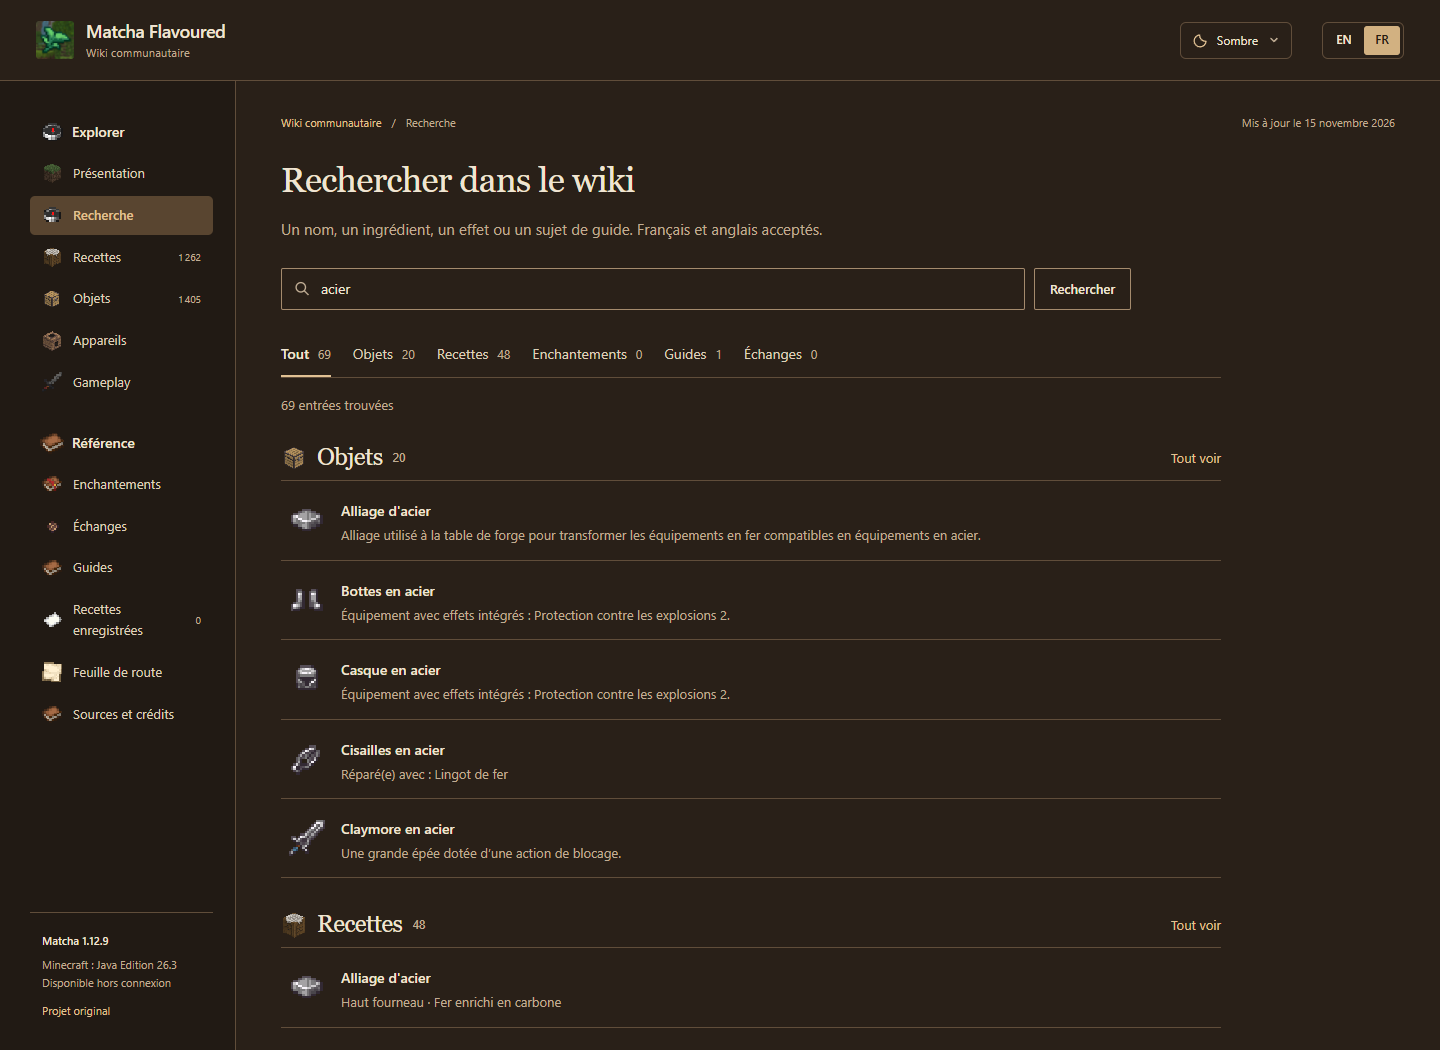
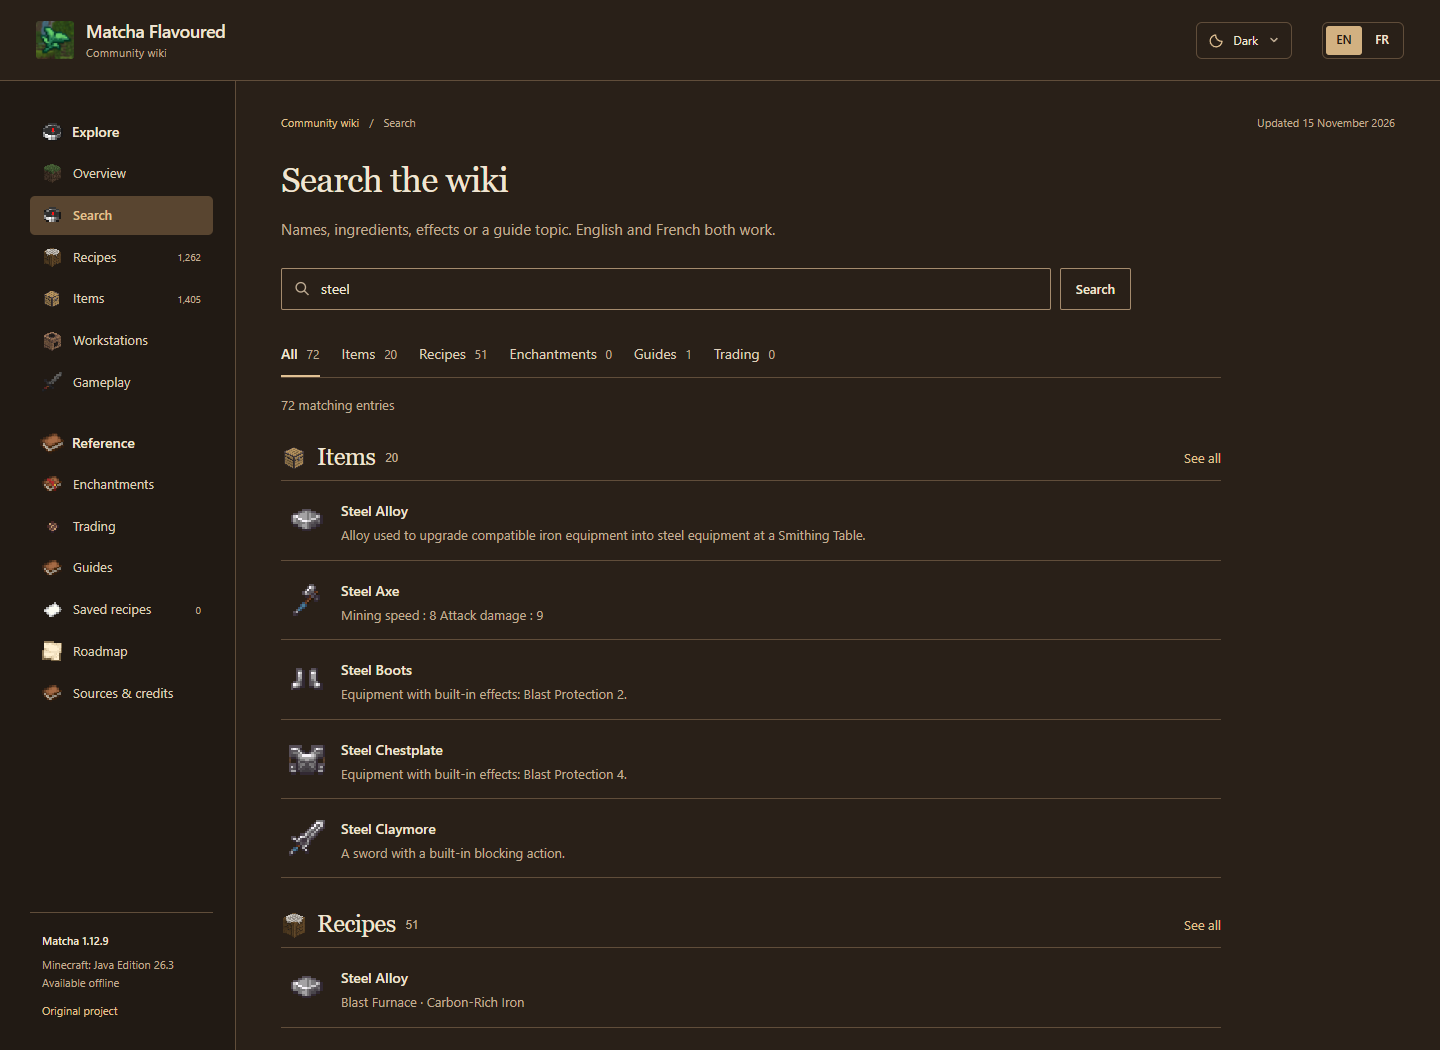
docs: present the wiki in English and invite stars
Keep the wiki bilingual while making the repository README English-only.
Refresh the preview and file checksums to match the presentation.

diff --git a/README.md b/README.md
@@ -1,92 +1,77 @@
 <p align="center">
-  <img src="matcha-logo.png" width="96" height="96" alt="Logo officiel de Matcha Flavoured">
+  <img src="matcha-logo.png" width="96" height="96" alt="Official Matcha Flavoured logo">
 </p>
 
 # Matcha Flavoured Wiki
 
-**Nouveau wiki réalisé par Tsumun.** Un wiki communautaire en français et en anglais pour retrouver les recettes, comprendre les objets et consulter les règles de Matcha Flavoured.
+**New wiki created by Tsumun.** An independent community wiki to look up recipes, understand items and explore the gameplay changes in Matcha Flavoured. The wiki itself is available in **English and French**.
 
-**[Consulter le wiki](https://tsumundev.github.io/Matcha-Flavoured-Wiki/)** · **[Télécharger le wiki en ZIP](https://github.com/TsumunDev/Matcha-Flavoured-Wiki/raw/refs/heads/main/matcha-wiki-site.zip)** · **[Historique des sauvegardes](https://github.com/TsumunDev/Matcha-Flavoured-Wiki/commits/main/)**
+**[Read the wiki](https://tsumundev.github.io/Matcha-Flavoured-Wiki/)** · **[Download the offline ZIP](https://github.com/TsumunDev/Matcha-Flavoured-Wiki/raw/refs/heads/main/matcha-wiki-site.zip)** · **[Browse saved versions](https://github.com/TsumunDev/Matcha-Flavoured-Wiki/commits/main/)**
 
-[![Recherche du wiki Matcha, avec les textures du pack et les résultats en français](preview/wiki-search.png)](https://tsumundev.github.io/Matcha-Flavoured-Wiki/)
+If you find the wiki useful, please leave a **⭐ on this repository**. Thank you for supporting the project!
 
-Ce dépôt conserve les versions consultables du wiki et une trace de son évolution. Le fichier HTML, les images nécessaires et le téléchargement hors connexion sont sauvegardés ici. Les sources de travail séparées, outils de développement et archives complètes du pack restent hors du dépôt.
+[![Matcha wiki search, showing original pack textures and English results](preview/wiki-search.png)](https://tsumundev.github.io/Matcha-Flavoured-Wiki/)
 
-## Le projet original
+This repository preserves browsable wiki snapshots and a record of their development. It includes the standalone HTML, its images and an offline download. Separate development sources, tools and full pack archives are kept outside this repository.
 
-**Matcha Flavoured est créé par Klei Wright et les contributeurs du projet.** Ce wiki est indépendant et ne constitue pas un wiki officiel du pack.
+## The original project
 
-- **[Matcha Flavoured sur Modrinth](https://modrinth.com/datapack/matcha-flavoured)** : télécharger le pack, consulter sa présentation et ses versions.
-- **[GitHub officiel de Matcha Flavoured](https://github.com/kleiwright/matcha-flavoured)** : retrouver les sources et le développement du datapack.
+**Matcha Flavoured is created by Klei Wright and the project's contributors.** This wiki is a separate community project and is not an official Matcha wiki.
 
-Le wiki sert à consulter des informations. Pour installer ou mettre à jour Matcha, utilisez les pages officielles ci-dessus.
+- **[Matcha Flavoured on Modrinth](https://modrinth.com/datapack/matcha-flavoured)** — download the pack, read its description and browse its releases.
+- **[Official Matcha Flavoured GitHub](https://github.com/kleiwright/matcha-flavoured)** — find the datapack's source and development history.
 
-## Version documentée
+To install or update Matcha, use the official project pages above. This repository distributes the wiki, not the pack.
 
-| Référence | Cette sauvegarde |
+## Documented version
+
+| Reference | This snapshot |
 | --- | --- |
 | Matcha Flavoured | **1.12.9** |
 | Minecraft | **Java Edition 26.3** |
-| Langues du wiki | **Français et anglais** |
-| Édition | **15 novembre 2026** |
+| Wiki languages | **English and French** |
+| Edition date | **15 November 2026** |
 
-Le contenu correspond à cette version précise. Un serveur, un addon ou une autre version du pack peut modifier les règles et les recettes.
+The content documents this specific release. Servers, addons and other pack versions may change recipes or gameplay rules.
 
-## Ce qu’on peut consulter
+## What's inside
 
-| Rubrique | Contenu |
+| Section | Content |
 | --- | --- |
-| Recettes | **1 262 recettes**, avec ingrédients, variantes acceptées, quantités, disposition et appareil. |
-| Objets | **1 405 fiches publiques**, avec descriptions, fabrication et utilisations. |
-| Guides | **19 guides bilingues** : débuts, cuisine, équipement, santé, mort, créatures, Nether, End, agriculture et exploration. |
-| Enchantements | **74 effets actifs** et **28 livres**, dont les bénédictions et Ofuda. |
-| Alimentation | **191 aliments et préparations**, avec les effets et les conditions de soin. |
-| Échanges | **268 offres utiles**, avec coûts, métiers et conditions de biome lorsqu’elles existent. |
-| Progrès et raretés | Un arbre de **69 progrès publics**, les étoiles de **47 poissons** et les raretés de noms documentées. |
+| Recipes | **1,262 recipes** with ingredients, accepted alternatives, quantities, arrangements and workstations. |
+| Items | **1,405 public entries** with descriptions, crafting recipes and uses. |
+| Guides | **19 bilingual guides** covering first steps, cooking, equipment, health, death, creatures, the Nether, the End, farming and exploration. |
+| Enchantments | **74 active effects** and **28 books**, including crafted Blessings and traded Ofuda. |
+| Food | **191 foods and preparations**, with effects and conditional healing explained. |
+| Trading | **268 useful offers**, with costs, professions and biome conditions where applicable. |
+| Advancements and rarity | A tree of **69 public advancements**, star ratings for **47 fish** and documented item-name rarities. |
 
-La recherche accepte les noms français et anglais, les accents, les identifiants et les alias. Les catégories et filtres se combinent. Trois apparences sont disponibles : Sombre, Clair et Claude. Les recettes enregistrées restent dans le navigateur de chaque lecteur.
+Search accepts English and French names, accents, technical identifiers and aliases. Categories and filters can be combined. Dark, Light and Claude appearances are available, and saved recipes stay in each reader's browser.
 
-Les secrets explicites et entrées de débogage ne sont pas présentés dans cette édition.
+Explicit secrets and debug entries are excluded from this edition.
 
-## Télécharger et ouvrir hors connexion
+## Download and read offline
 
-1. Téléchargez **[matcha-wiki-site.zip](https://github.com/TsumunDev/Matcha-Flavoured-Wiki/raw/refs/heads/main/matcha-wiki-site.zip)**.
-2. Décompressez l’archive dans un dossier.
-3. Ouvrez **`index.html`** dans votre navigateur.
+1. Download **[matcha-wiki-site.zip](https://github.com/TsumunDev/Matcha-Flavoured-Wiki/raw/refs/heads/main/matcha-wiki-site.zip)**.
+2. Extract the archive into a folder.
+3. Open **`index.html`** in your browser.
 
-Les données, images et recherches sont intégrées au HTML. Aucun serveur ni compte n’est nécessaire pour consulter le wiki ; seuls les liens externes demandent Internet. Les fichiers de crédits accompagnent l’archive.
+Data, images and search are bundled into the HTML. No server or account is needed to browse the wiki; only external reference links require an internet connection. Attribution files are included in the archive.
 
-Le bouton **Code → Download ZIP** de GitHub télécharge quant à lui tout le dépôt, avec le README et l’historique éditorial de cette édition.
+GitHub's **Code → Download ZIP** button downloads the whole repository snapshot instead, including this README and the changelog.
 
-## Suivre les sauvegardes
+## Follow the wiki's progress
 
-- [CHANGELOG.md](CHANGELOG.md) décrit les évolutions du wiki.
-- [SNAPSHOT.json](SNAPSHOT.json) indique la version documentée et les empreintes des fichiers distribués.
-- L’[historique Git](https://github.com/TsumunDev/Matcha-Flavoured-Wiki/commits/main/) conserve les versions successives des fichiers.
+- [CHANGELOG.md](CHANGELOG.md) records changes to the wiki.
+- [SNAPSHOT.json](SNAPSHOT.json) lists the documented version and distributed file checksums.
+- The [Git history](https://github.com/TsumunDev/Matcha-Flavoured-Wiki/commits/main/) preserves successive file versions.
 
-La revue documentaire du 15 novembre 2026 a comparé les **1 262 recettes** aux sources et ouvert toutes les fiches publiques au navigateur. **30 contrôles navigateur** ont été réussis, notamment pour les recherches, filtres, langues, thèmes, mobile et fonctionnement hors connexion. Cela ne remplace pas une validation en jeu ni le contrôle de chaque configuration serveur.
+The 15 November 2026 documentation review compared all **1,262 recipes** with their release sources and opened every public item, recipe and effect entry in a browser. **30 browser checks passed**, covering search, filters, languages, themes, mobile layouts and offline use. These checks do not replace in-game testing or validation of individual server configurations.
 
-## Crédits et conditions de réutilisation
+## Credits and reuse
 
-Le wiki est réalisé par **Tsumun**. Matcha Flavoured, ses textures et ses contenus appartiennent à **Klei Wright et aux contributeurs crédités**. Le catalogue communautaire d’[Evansch0](https://github.com/Evansch0/MatchaFlavouredWiki) a également servi de référence.
+The wiki is created by **Tsumun**. Matcha Flavoured and its content and textures belong to **Klei Wright and the credited contributors**. [Evansch0's community catalogue](https://github.com/Evansch0/MatchaFlavouredWiki) was also used as a reference.
 
-Les contenus Matcha et les adaptations documentaires conservent leurs conditions **CC BY-NC-SA 4.0**. Les noms et ressources Minecraft appartiennent à Mojang Studios et Microsoft. Le fichier de licence GPLv3 choisi à l’initialisation du dépôt ne remplace pas les conditions des éléments tiers.
+Matcha content and documentary adaptations retain their **CC BY-NC-SA 4.0** terms. Minecraft names and vanilla assets belong to Mojang Studios and Microsoft. The GPLv3 file selected when this repository was created does not replace the terms of third-party content.
 
-Voir [ATTRIBUTIONS.md](ATTRIBUTIONS.md), [CONTENT-LICENSE.md](CONTENT-LICENSE.md) et [LICENSE](LICENSE). Ce projet n’est pas affilié à Mojang ou Microsoft.
-
----
-
-<details>
-<summary><strong>English</strong></summary>
-
-**New wiki created by Tsumun.** This independent community wiki documents Matcha Flavoured **1.12.9** for Minecraft Java **26.3**, in English and French.
-
-**[Read the wiki](https://tsumundev.github.io/Matcha-Flavoured-Wiki/)** or **[download the offline ZIP](https://github.com/TsumunDev/Matcha-Flavoured-Wiki/raw/refs/heads/main/matcha-wiki-site.zip)**, extract it and open `index.html`. Search, images and data work offline. External links require an internet connection.
-
-This repository preserves browsable snapshots and their history. It contains 1,262 recipes, 1,405 public item entries, 19 guides, 74 active effects, 28 books, 191 foods, 268 trade offers and 69 public advancements. Development files and full pack archives are kept outside this repository.
-
-Matcha Flavoured is created by **Klei Wright and contributors**. Please use **[the official Modrinth project](https://modrinth.com/datapack/matcha-flavoured)** to download the pack and **[the official Matcha GitHub repository](https://github.com/kleiwright/matcha-flavoured)** for its development. This wiki is unofficial.
-
-See [ATTRIBUTIONS.md](ATTRIBUTIONS.md) and [CONTENT-LICENSE.md](CONTENT-LICENSE.md) for the original creators and reuse conditions. Source-file and browser verification do not constitute an in-game test.
-
-</details>
+See [ATTRIBUTIONS.md](ATTRIBUTIONS.md), [CONTENT-LICENSE.md](CONTENT-LICENSE.md) and [LICENSE](LICENSE). This project is not affiliated with Mojang or Microsoft.
